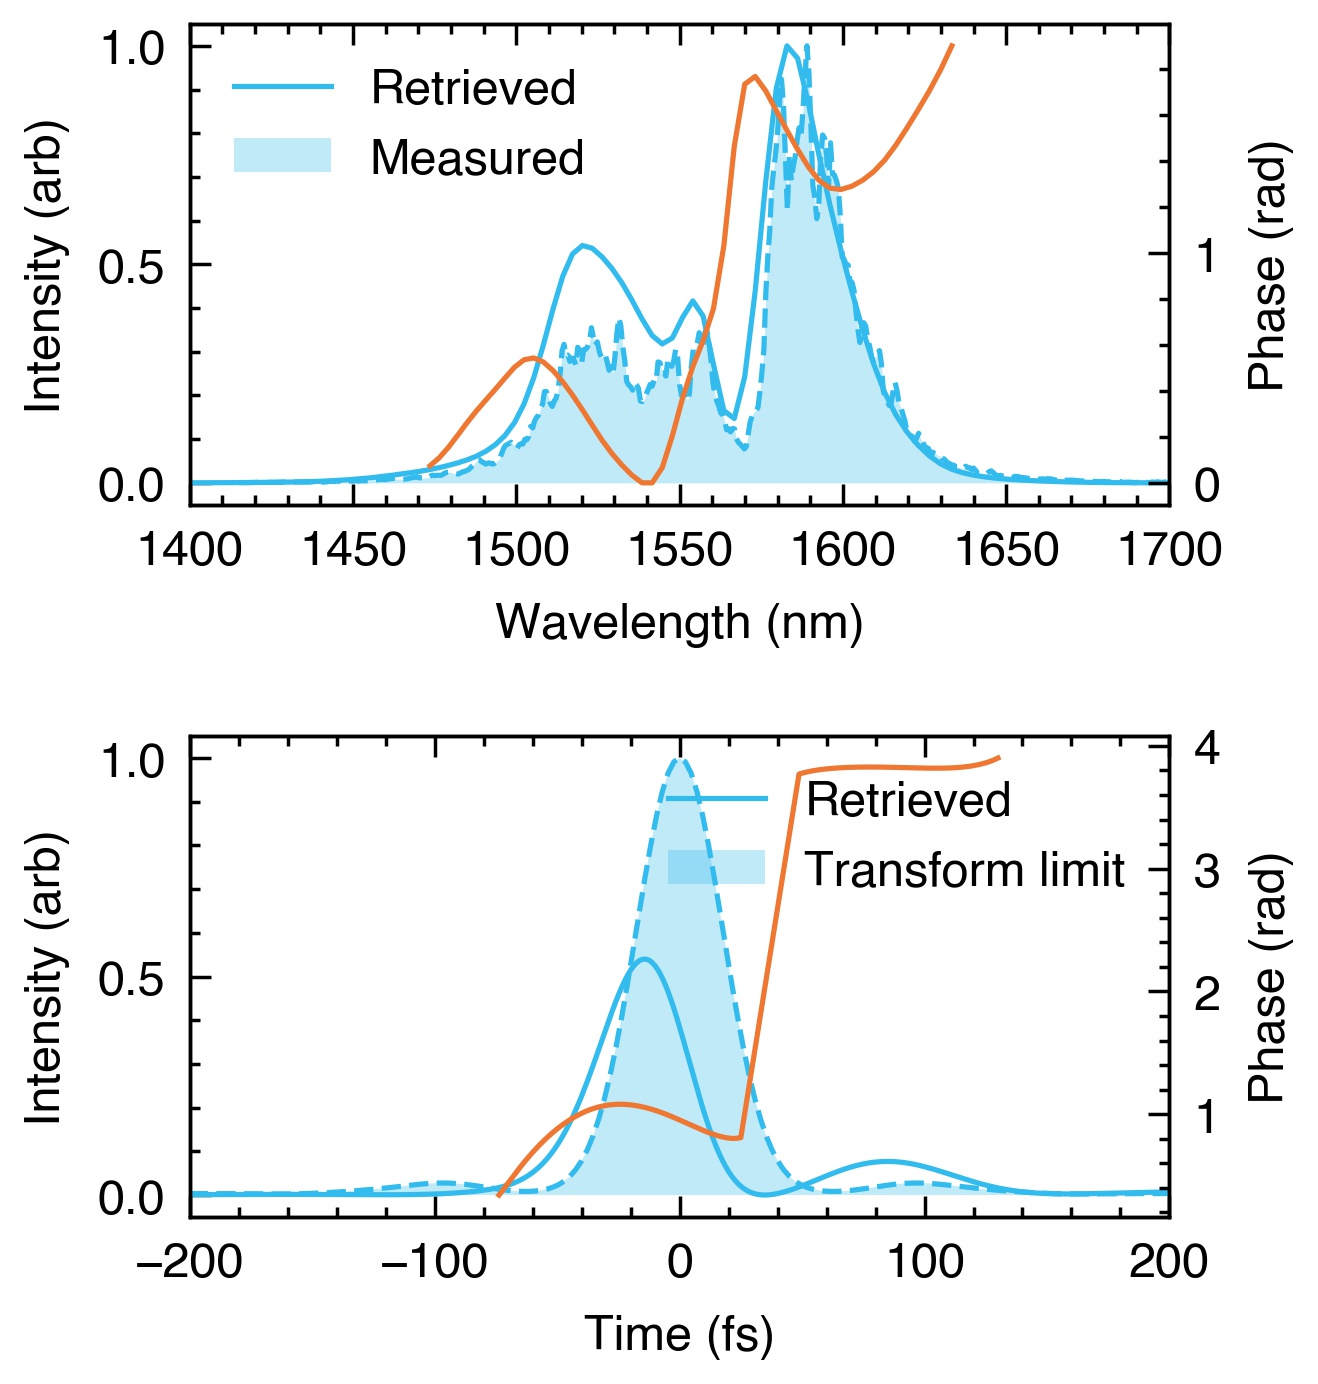
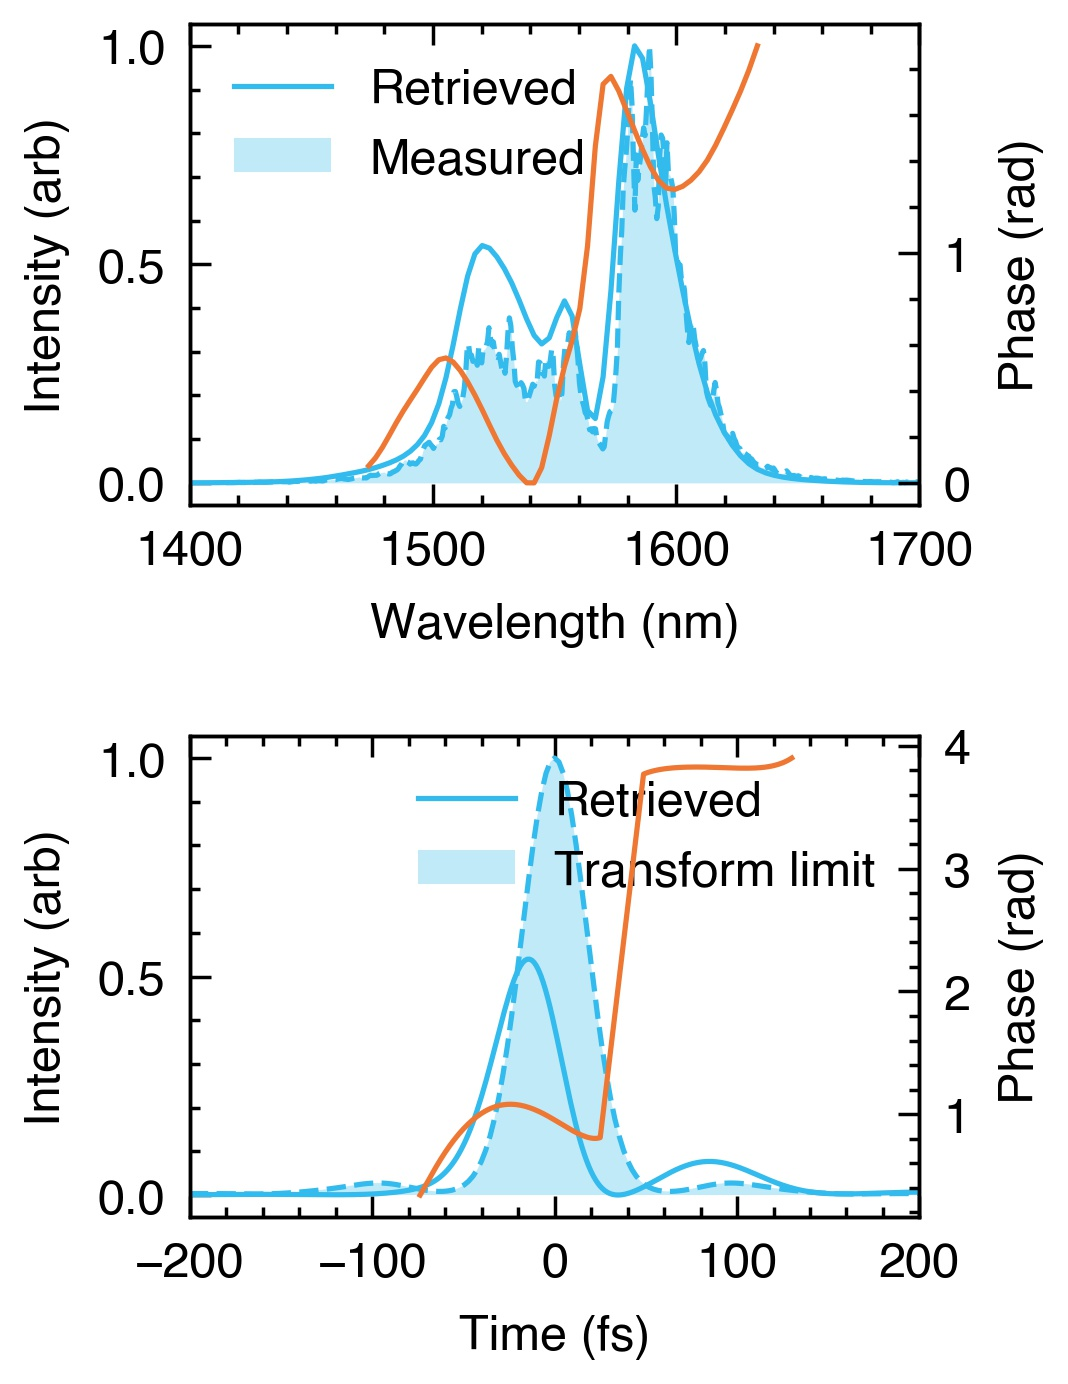
minor tweaks

diff --git a/main.py b/main.py
@@ -60,7 +60,7 @@ if __name__ == "__main__":
     TL_Et = TL_Et / max
 
     # Generate plot
-    fig, axes = plt.subplots(2, 1, figsize=(3, 3))
+    fig, axes = plt.subplots(2, 1, figsize=(2.5, 3))
 
     # ------------------ Generate spectrum figure ------------------
     ax2 = axes[0].twinx()
